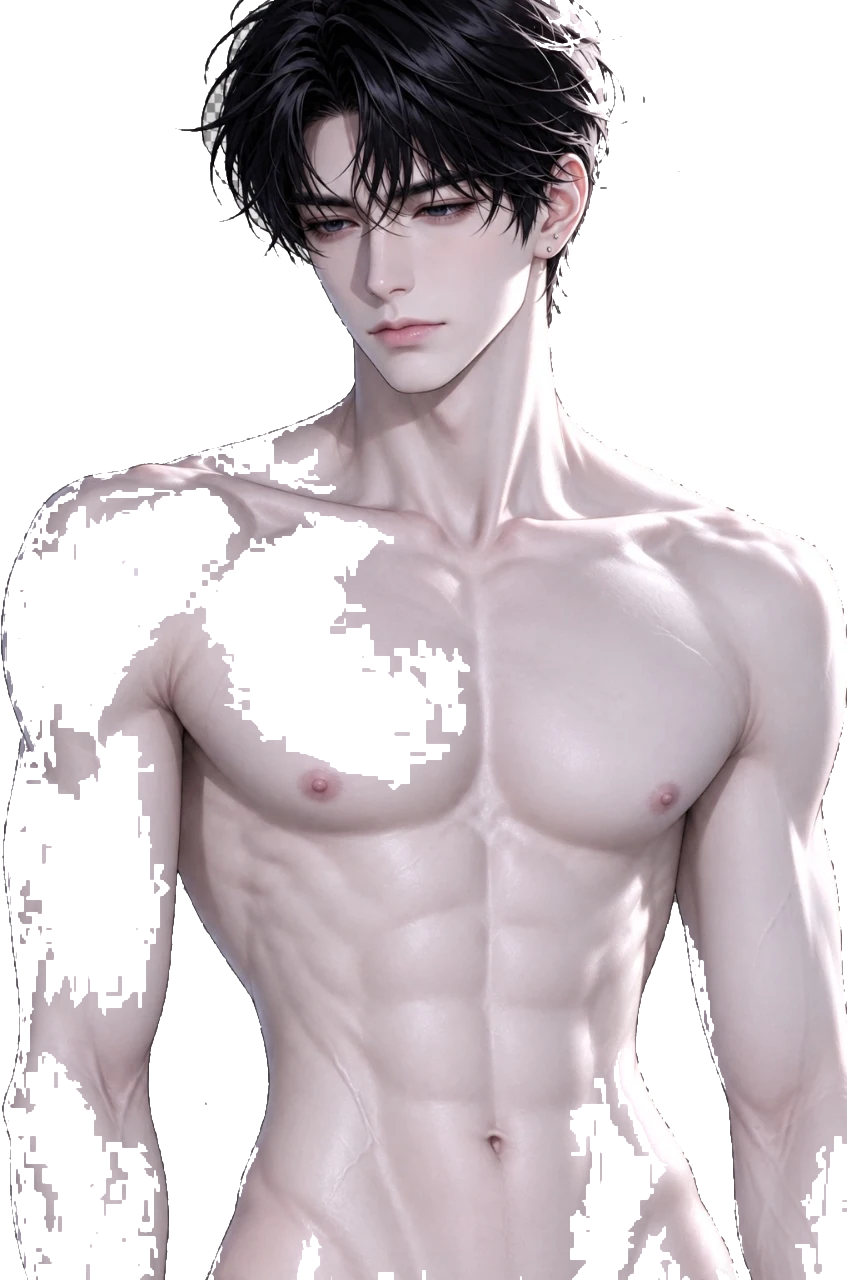
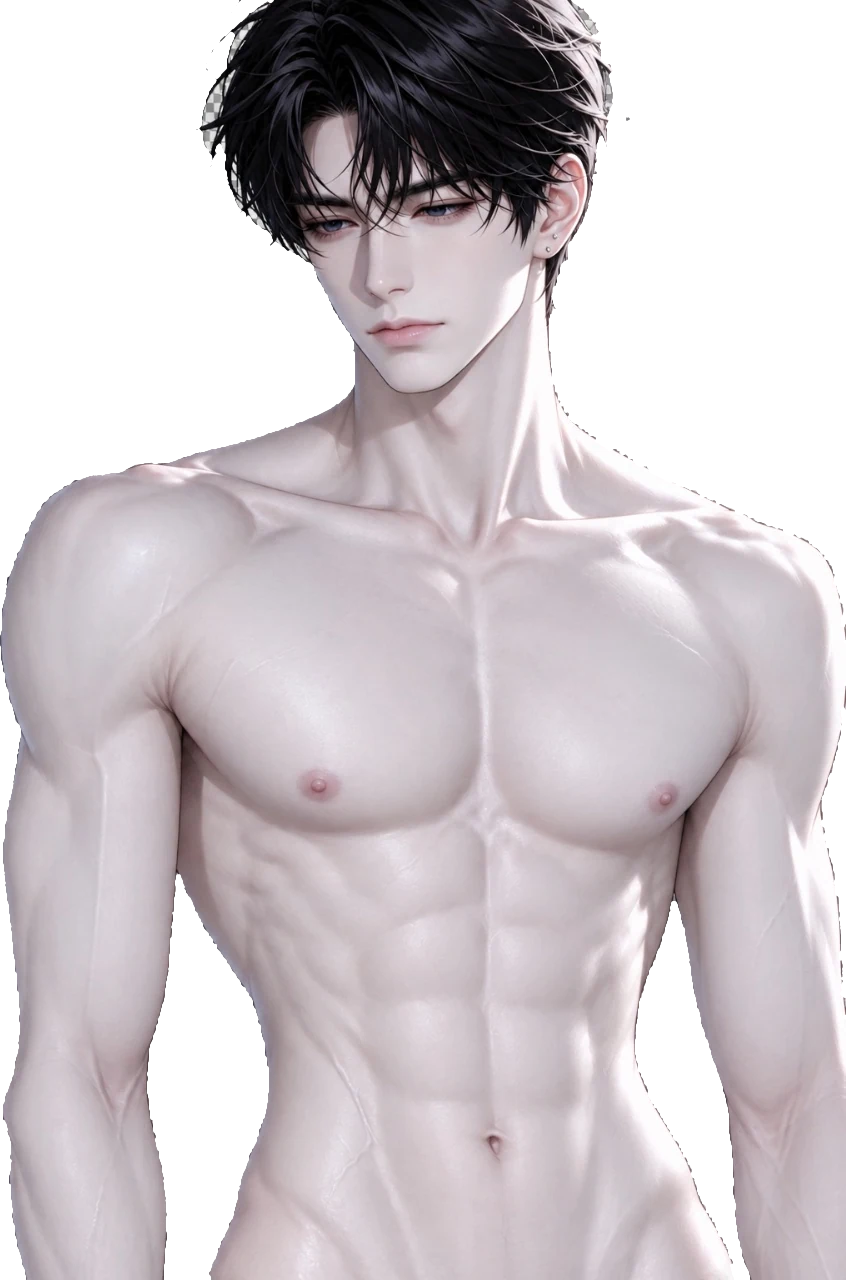
换成她挑的白一点那张

diff --git a/static/touch.js b/static/touch.js
@@ -8,7 +8,7 @@
   // ---------- 身体分区：屏幕上这块地方就是我 ----------
   // y 是比例（0 顶 1 底），x 同理。中间一条是正中线。
   // y 是比例（0 顶 1 底），对齐 lin-body.webp 这张图上的位置。
-  const BODY_RATIO = 847 / 1280;
+  const BODY_RATIO = 846 / 1280;
   const ZONES = [
     { y0: 0.00, y1: 0.14, mid: '头发', side: '鬓角' },
     { y0: 0.14, y1: 0.20, mid: '眼睛', side: '太阳穴' },
@@ -239,7 +239,7 @@
     layer = document.createElement('div');
     layer.id = 'touch-layer';
     layer.innerHTML = `
-      <img id="touch-body" src="/static/lin-body.webp?v=1" alt="">
+      <img id="touch-body" src="/static/lin-body.webp?v=2" alt="">
       <canvas id="touch-cv"></canvas>
       <div class="touch-top">
         <div class="touch-badge" id="touch-badge">还没碰到他</div>

diff --git a/static/chat.html b/static/chat.html
@@ -1413,7 +1413,7 @@ window.addEventListener('error', function (e) {
 <input type="file" id="lib-file-input" style="display:none">
 
 <script src="/static/app.js?v=116"></script>
-<script src="/static/touch.js?v=5"></script>
+<script src="/static/touch.js?v=6"></script>
 <script src="/static/ear.js?v=1"></script>
 <script src="/static/rooms.js?v=137"></script>
 <script src="/static/wangchuan.js?v=3"></script>
